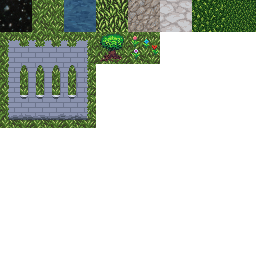
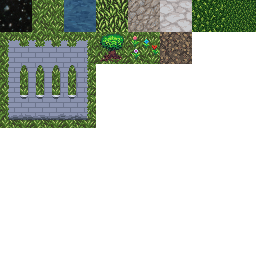
Add some random roads/paths

Changed region(s): [[0.625, 0.125, 0.75, 0.25]]

diff --git a/src/tilemap.cpp b/src/tilemap.cpp
@@ -281,6 +281,8 @@ Chunk &Tilemap::FindOrGenChunk(World &world, int16_t chunkX, int16_t chunkY)
             TileType tileType{};
 #if 1
 #define FREQ_ELEVATION                             1.0 / 16000
+#define FREQ_ROADS                                 1.0 / 4000
+#define FREQ_ROADS_NOISE                           1.0 / 400
 #define FREQ_ISLAND                                1.0 / 3000
 #define FREQ_BEACH_FALLOFF                         1.0 / 400
 #define FREQ_MEADOW_FLOWERS                        1.0 / 100
@@ -289,6 +291,8 @@ Chunk &Tilemap::FindOrGenChunk(World &world, int16_t chunkX, int16_t chunkY)
 #define FREQ_FOREST_MOUNTAINTOP_LAKE_BEACH_FALLOFF 1.0 / 300
 #define FREQ_MOUNTAINTOP_LAKE_FALLOFF              1.0 / 600
 #define NOISE_SAMPLE(freq) (0.5 + noise2(ose, osg, worldX * freq, worldY * freq) / 2.0)
+#define NOISE_SAMPLE2(freq) (0.5 + noise2(ose, osg2, worldX * freq, worldY * freq) / 2.0)
+#define NOISE_BETWEEN(noise, a, b) ((noise) >= (a) && (noise) <= (b))
             const double elev = NOISE_SAMPLE(FREQ_ELEVATION);
             if (elev < 0.2) {
                 // Lake
@@ -371,8 +375,29 @@ Chunk &Tilemap::FindOrGenChunk(World &world, int16_t chunkX, int16_t chunkY)
                 }
             }
 
-            if (tileType == TileType_Grass) {
+            if (elev >= 0.3 && elev <= 0.32) {
+                tileType = TileType_Wood;
+            }
 
+            switch (tileType) {
+                case TileType_Grass: case TileType_Forest: case TileType_Flowers: case TileType_Tree: {
+                    const double road = NOISE_SAMPLE(FREQ_ROADS);
+                    if (road >= 0.5 && road <= 0.55) {
+                        const double roadNoise = NOISE_SAMPLE(FREQ_ROADS_NOISE);
+                        if (NOISE_BETWEEN(roadNoise, 0.15, 0.17) ||
+                            NOISE_BETWEEN(roadNoise, 0.20, 0.28) ||
+                            NOISE_BETWEEN(roadNoise, 0.31, 0.37) ||
+                            NOISE_BETWEEN(roadNoise, 0.45, 0.47) ||
+                            NOISE_BETWEEN(roadNoise, 0.52, 0.55) ||
+                            NOISE_BETWEEN(roadNoise, 0.70, 0.73)) {
+                        } else {
+                            tileType = TileType_Dirt;
+                        }
+                        break;
+                    }
+                    break;
+                }
+                default: break;
             }
 #else
 #define FREQ_BASE_LAYER 1.0 / 10000

diff --git a/src/tile.h b/src/tile.h
@@ -18,7 +18,7 @@ enum : TileType {
     TileType_Structure_TR,
     TileType_Tree,
     TileType_Flowers,
-    TileType_Unused2,
+    TileType_Dirt,
     TileType_Unused3,
     TileType_Unused4,
 
